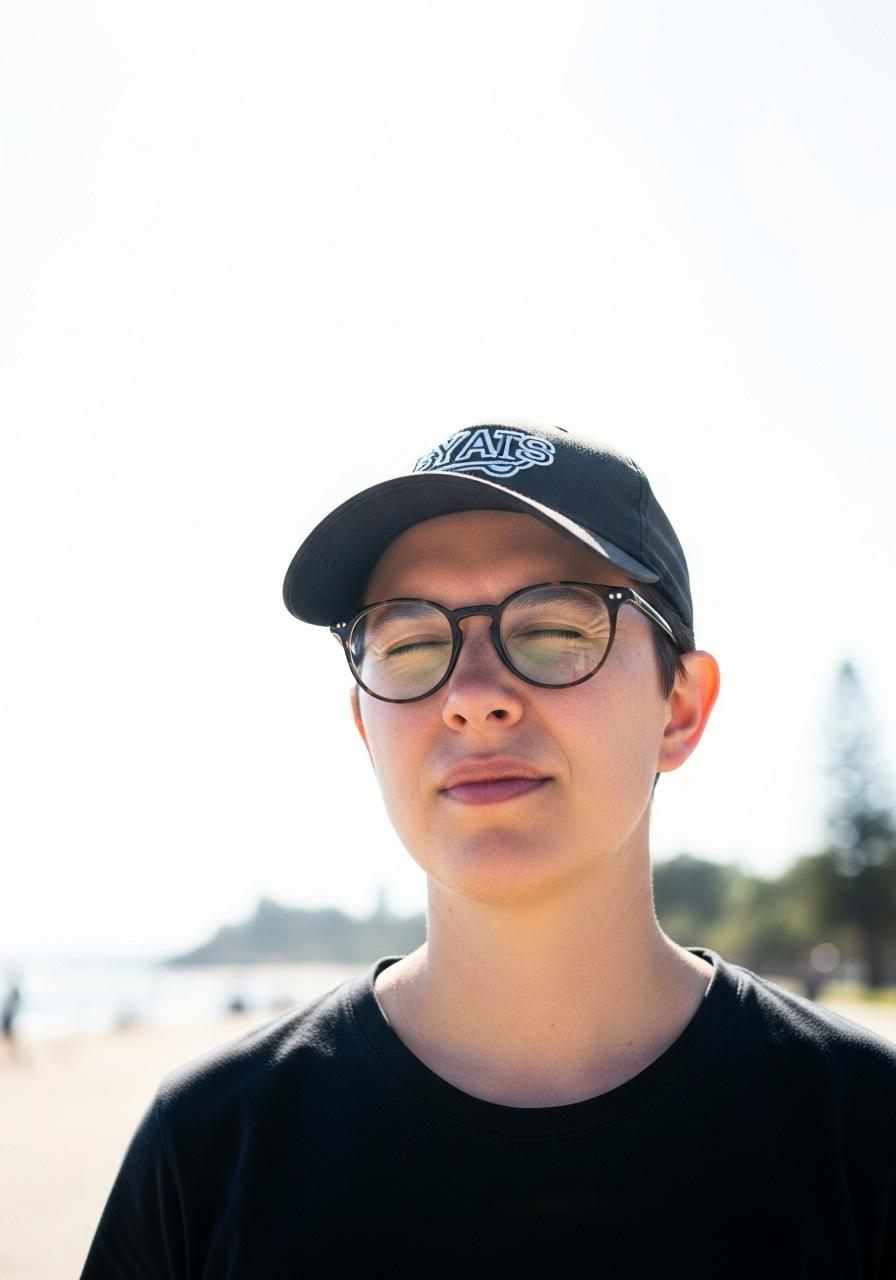
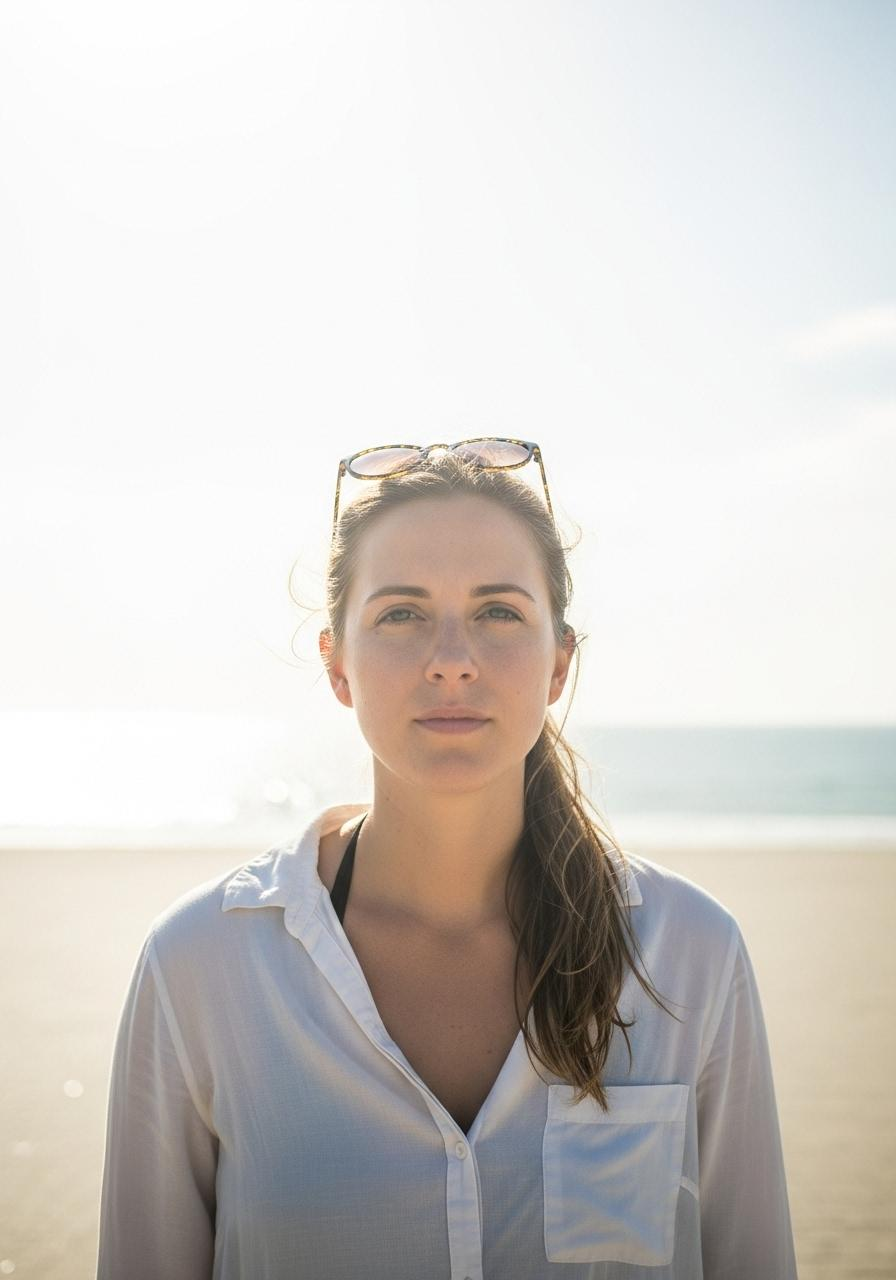
[Fix] Correct Overexposed state priority + Improve test prompts
Problem:
- Overexposed state never triggered due to HighContrast taking priority
- AI-generated test images had insufficient highlight ratio (7.39% vs 15% threshold)

Changes:
1. AnalyzeLightingUseCase.kt:
   - Swap Overexposed and HighContrast priority order
   - Update comments to reflect correct priority (2 vs 3)
   - Reasoning: Overexposed is specific exposure issue, HighContrast is general scene

2. prompts_v2.6.0_hdr_test.txt:
   - Enhanced prompts with explicit >25% highlight ratio requirement
   - Added CRITICAL technical specs for Gemini API guidance
   - Emphasized pure white (255,255,255) pixel requirement

3. Regenerated test images:
   - hdr_overexposed_snow_glare.jpg: 7.39% → 75.59% highlight ratio
   - hdr_overexposed_sunny_outdoor.jpg: 59.22% → 50.43% highlight ratio (maintained)

Result:
- ✅ Overexposed state now correctly triggers for extreme brightness
- ✅ Semantic correctness: specific issue (Overexposed) before general (HighContrast)
- ✅ Test coverage: 5/5 lighting states validated on emulator
- ✅ Logcat confirms: overexp=true, CameraViewModel: Overexposed

🤖 Generated with [Claude Code](https://claude.com/claude-code)

diff --git a/app/src/main/java/com/akirachang/ai/photographer/domain/usecase/AnalyzeLightingUseCase.kt b/app/src/main/java/com/akirachang/ai/photographer/domain/usecase/AnalyzeLightingUseCase.kt
@@ -136,8 +136,8 @@ class AnalyzeLightingUseCase @Inject constructor(
      *
      * Priority order (highest to lowest):
      * 1. Backlight (most critical - affects subject visibility)
-     * 2. High contrast (needs HDR)
-     * 3. Overexposure (highlight clipping)
+     * 2. Overexposure (highlight clipping - specific exposure issue)
+     * 3. High contrast (needs HDR - general scene characteristic)
      * 4. Underexposure (low light)
      * 5. Normal
      *
@@ -162,7 +162,15 @@ class AnalyzeLightingUseCase @Inject constructor(
                 )
             }
 
-            // High contrast (not backlit but needs HDR)
+            // Overexposure - priority 2 (more specific than high contrast)
+            analysis.isOverexposed -> {
+                LightingState.Overexposed(
+                    highlightRatio = analysis.highlightRatio,
+                    avgLuminance = analysis.avgLuminance
+                )
+            }
+
+            // High contrast (not backlit, not overexposed, but needs HDR)
             analysis.isHighContrast -> {
                 // Calculate contrast ratio from dynamic range
                 val minLevel = 127.5f - (analysis.dynamicRange / 2f)
@@ -174,14 +182,6 @@ class AnalyzeLightingUseCase @Inject constructor(
                     dynamicRange = analysis.dynamicRange,
                     highlightRatio = analysis.highlightRatio,
                     shadowRatio = analysis.shadowRatio
-                )
-            }
-
-            // Overexposure
-            analysis.isOverexposed -> {
-                LightingState.Overexposed(
-                    highlightRatio = analysis.highlightRatio,
-                    avgLuminance = analysis.avgLuminance
                 )
             }
 
